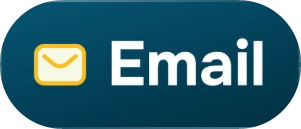
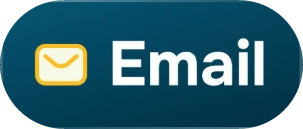
SendPulse intro: re-cut the pills on their measured rims, export four pill PNGs
Claude-Session: https://claude.ai/code/session_01PaN86rsopFH5ATusCk69Sp

diff --git a/projects/sendpulse-mcp/film/cut.js b/projects/sendpulse-mcp/film/cut.js
@@ -169,44 +169,44 @@ window.CUT = {
   "src": "../assets/cut/orbit_glow.png"
  },
  "pill_email": {
-  "x": 254,
+  "x": 253,
   "y": 102,
-  "w": 301,
+  "w": 303,
   "h": 129,
   "src": "../assets/cut/pill_email.png"
  },
  "pill_chatbot": {
-  "x": 809,
-  "y": 97,
-  "w": 382,
-  "h": 139,
+  "x": 808,
+  "y": 106,
+  "w": 384,
+  "h": 130,
   "src": "../assets/cut/pill_chatbot.png"
  },
  "pill_automation": {
   "x": 1383,
-  "y": 104,
+  "y": 103,
   "w": 487,
-  "h": 126,
+  "h": 127,
   "src": "../assets/cut/pill_automation.png"
  },
  "pill_popups": {
-  "x": 180,
+  "x": 179,
   "y": 104,
-  "w": 394,
+  "w": 396,
   "h": 126,
   "src": "../assets/cut/pill_popups.png"
  },
  "pill_landing": {
   "x": 724,
-  "y": 94,
-  "w": 552,
-  "h": 136,
+  "y": 104,
+  "w": 553,
+  "h": 126,
   "src": "../assets/cut/pill_landing.png"
  },
  "pill_crm": {
-  "x": 1510,
+  "x": 1509,
   "y": 104,
-  "w": 284,
+  "w": 285,
   "h": 126,
   "src": "../assets/cut/pill_crm.png"
  },

diff --git a/projects/sendpulse-mcp/tools/extract.py b/projects/sendpulse-mcp/tools/extract.py
@@ -166,10 +166,11 @@ save('orbit_glow', np.broadcast_to(BG, p4.shape) + (p4 - BG) / np.maximum(glow[.
 
 # ------------------------------------------------------------------ slides 3 and 4: pills on top, UI groups below, top glow plate
 s3, s2 = load(3), load(2)
-P3 = {'email': (254, 102, 554, 231), 'chatbot': (809, 107, 1191, 236), 'automation': (1383, 103, 1871, 230)}
-P4 = {'popups': (180, 104, 574, 230), 'landing': (725, 104, 1276, 230), 'crm': (1510, 104, 1794, 230)}
-for nm, b in P3.items(): card(s3, f'pill_{nm}', b, 62)
-for nm, b in P4.items(): card(s2, f'pill_{nm}', b, 62)
+# pill boxes measured on the outer pixel of each rim (no snapping: the top glow would pull the edge upwards)
+P3 = {'email': (253, 102, 556, 231), 'chatbot': (808, 106, 1192, 236), 'automation': (1383, 103, 1870, 230)}
+P4 = {'popups': (179, 104, 575, 230), 'landing': (724, 104, 1277, 230), 'crm': (1509, 104, 1794, 230)}
+for nm, b in P3.items(): card(s3, f'pill_{nm}', b, (b[3] - b[1]) // 2, snap=False)
+for nm, b in P4.items(): card(s2, f'pill_{nm}', b, (b[3] - b[1]) // 2, snap=False)
 group(s3, 'g3_left', (0, 724), (360, 1125), exclude=[(690, 360, 724, 372)])
 group(s3, 'g3_mid', (690, 1312), (300, 940), exclude=[(690, 372, 724, 940)])
 group(s3, 'g3_right', (1312, 2000), (330, 1125))
